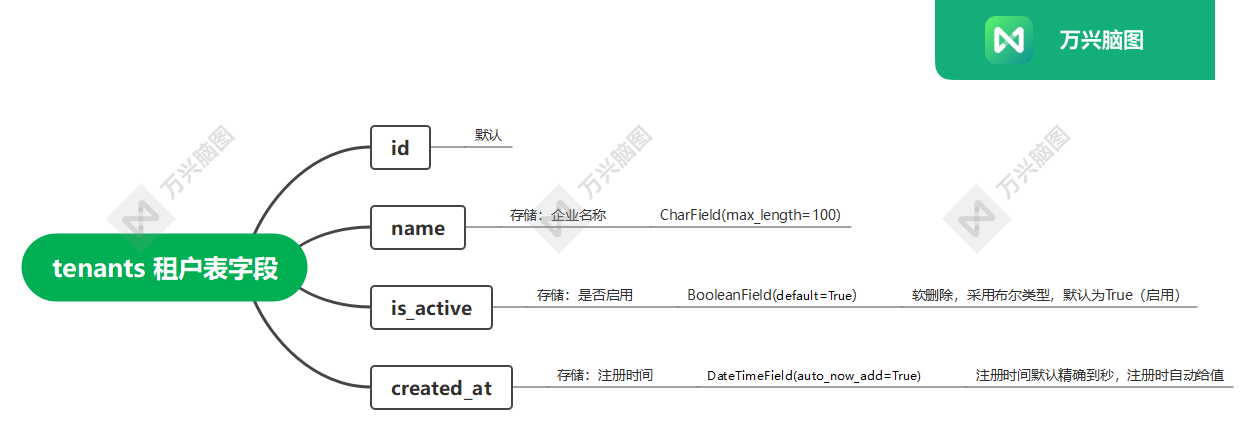
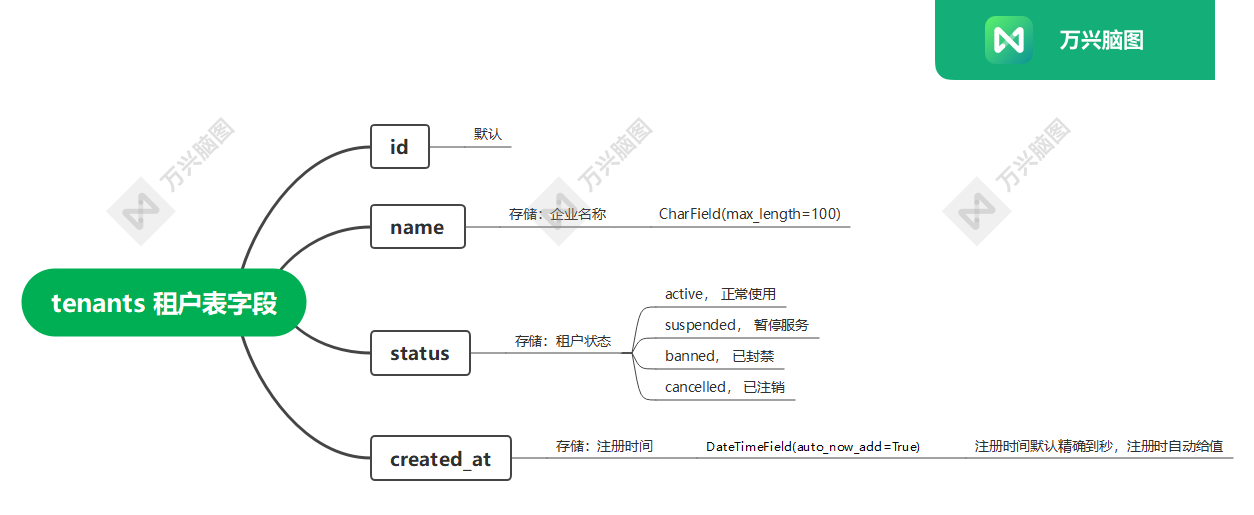
修复了一些bug

diff --git a/accounts/serializers.py b/accounts/serializers.py
@@ -14,6 +14,7 @@ from rest_framework import serializers
 # 4. 当前app自定义代码
 from .models import Tenant, User
 from .utils import redis_client
+from .utils import check_tenant_active
 
 # 企业注册 序列化器
 class RegisterSerializer(serializers.Serializer):
@@ -86,15 +87,30 @@ class LoginSerializer(serializers.Serializer):
         if not check_password(password, user.password):
             raise serializers.ValidationError('邮箱或密码错误')
 
-        # 3. 校验账号状态是否可用
-        if user.status == 'pending':
-            raise serializers.ValidationError('账号未激活，请查收邀请邮件')
-        if user.status == 'resigned':
-            raise serializers.ValidationError('账号已离职或被禁用')
-        if user.status == 'expired':
-            raise serializers.ValidationError('邀请已过期，请联系管理员重新邀请')
+        # 3. 校验账号状态
+        if user.status != 'active':
+            status_messages = {
+                'pending': '账号未激活，请查收邀请邮件',
+                'resigned': '账号已离职或被禁用',
+                'expired': '邀请已过期，请联系管理员重新邀请',
+            }
+            raise serializers.ValidationError(
+                status_messages.get(user.status, '账号状态异常，请联系管理员')
+            )
 
-        # 4. 把内存里user对象，放进attrs字典，方便视图取用
+        # 4. 【新增】校验租户状态
+        if user.tenant:
+            tenant_messages = {
+                'suspended': '所属公司服务已暂停，请联系管理员续费',
+                'banned': '所属公司已被封禁，请联系平台管理员',
+                'cancelled': '所属公司已注销',
+            }
+            if user.tenant.status != 'active':
+                raise serializers.ValidationError(
+                    tenant_messages.get(user.tenant.status, '所属公司状态异常')
+                )
+
+        # 5. 把内存里 user 对象放进 attrs，方便视图取用
         attrs['user'] = user
         return attrs
 
@@ -107,6 +123,9 @@ class InviteSerializer(serializers.Serializer):
 
     def validate(self, attrs):
         request_user = self.context['request'].user
+
+        # 统一租户校验
+        check_tenant_active(request_user)
 
         # 1. 身份判断：董事长 / HR
         is_owner = request_user.role == 'owner'
@@ -189,8 +208,9 @@ class ActivateSerializer(serializers.Serializer):
                 raise serializers.ValidationError('无效的激活链接')
 
             # 判断所属公司是否被停用
-            if user.tenant and not user.tenant.is_active:
+            if user.tenant and user.tenant.status != 'active':
                 raise serializers.ValidationError('所属公司已被平台停用')
+
 
             # 判断账号状态是否处于待激活状态
             if user.status != 'pending':

diff --git a/accounts/models.py b/accounts/models.py
@@ -2,10 +2,21 @@ from django.db import models
 
 # tenants 租户表
 class Tenant(models.Model):
+    STATUS_CHOICES = [
+        ('active', '正常使用'),      # 正常使用
+        ('suspended', '暂停服务'),   # 欠费
+        ('banned', '已封禁'),        # 违规被封禁
+        ('cancelled', '已注销'),     # 企业主动注销
+    ]
     # 企业名称
     name = models.CharField(max_length=100, verbose_name='企业名称')
     # 企业状态
-    is_active = models.BooleanField(default=True, verbose_name='是否启用')
+    status = models.CharField(
+        max_length=20,
+        choices=STATUS_CHOICES,
+        default='active',
+        verbose_name='租户状态'
+    )
     # 注册时间
     created_at = models.DateTimeField(auto_now_add=True, verbose_name='注册时间')
 
@@ -38,11 +49,13 @@ class User(models.Model):
     STATUS_CHOICES = [
         ('pending', '待激活'),
         ('active', '在职'),
-        ('resigned', '已离职'),
+        ('resigned', '已离职'),  # 默认注销 = 已离职
+        ('expired', '邀请已过期'),
     ]
 
     # tenant_id
-    tenant = models.ForeignKey('Tenant', on_delete=models.PROTECT)
+    tenant = models.ForeignKey('Tenant', on_delete=models.PROTECT, null=True, blank=True,        # ← 新增可空
+        verbose_name='所属公司')
     # 邮箱
     email = models.EmailField(unique=True, verbose_name='邮箱')
     # 原始邮箱
@@ -73,7 +86,6 @@ class User(models.Model):
     USERNAME_FIELD = 'email'
     REQUIRED_FIELDS = []
 
-    
     @property
     def is_active(self):
         return self.status == 'active'
@@ -88,6 +100,12 @@ class User(models.Model):
 
     def get_username(self):
         return self.email
+
+    def has_perm(self, perm, obj=None):
+        return False
+
+    def has_module_perms(self, app_label):
+        return False
 
     class Meta:
         db_table = 'users'

diff --git a/accounts/migrations/0003_remove_tenant_is_active_tenant_status_and_more.py b/accounts/migrations/0003_remove_tenant_is_active_tenant_status_and_more.py
@@ -1,0 +1,33 @@
+# Generated by Django 5.2.17 on 2026-10-03 15:45
+
+import django.db.models.deletion
+from django.db import migrations, models
+
+
+class Migration(migrations.Migration):
+
+    dependencies = [
+        ('accounts', '0002_remove_user_is_active_user_original_email_and_more'),
+    ]
+
+    operations = [
+        migrations.RemoveField(
+            model_name='tenant',
+            name='is_active',
+        ),
+        migrations.AddField(
+            model_name='tenant',
+            name='status',
+            field=models.CharField(choices=[('active', '正常使用'), ('suspended', '暂停服务'), ('banned', '已封禁'), ('cancelled', '已注销')], default='active', max_length=20, verbose_name='租户状态'),
+        ),
+        migrations.AlterField(
+            model_name='user',
+            name='status',
+            field=models.CharField(choices=[('pending', '待激活'), ('active', '在职'), ('resigned', '已离职'), ('expired', '邀请已过期')], default='pending', max_length=20, verbose_name='账号状态'),
+        ),
+        migrations.AlterField(
+            model_name='user',
+            name='tenant',
+            field=models.ForeignKey(blank=True, null=True, on_delete=django.db.models.deletion.PROTECT, to='accounts.tenant', verbose_name='所属公司'),
+        ),
+    ]

diff --git a/accounts/utils.py b/accounts/utils.py
@@ -1,5 +1,6 @@
 import redis
 from django.conf import settings
+from rest_framework.exceptions import PermissionDenied
 
 # 全局 Redis 客户端
 redis_client = redis.Redis(
@@ -8,3 +9,19 @@ redis_client = redis.Redis(
     db=settings.REDIS_DB,
     decode_responses=True
 )
+
+'''
+校验用户所属租户是否处于正常状态。
+被封禁/暂停/注销的租户下，所有业务操作都应该被拦截。
+可在视图入口统一调用。
+'''
+def check_tenant_active(user):
+    if user.tenant and user.tenant.status != 'active':
+        status_messages = {
+            'suspended': '所属公司服务已暂停，请联系管理员续费',
+            'banned': '所属公司已被封禁，请联系平台管理员',
+            'cancelled': '所属公司已注销',
+        }
+        raise PermissionDenied(
+            status_messages.get(user.tenant.status, '所属公司状态异常')
+        )

diff --git a/accounts/admin.py b/accounts/admin.py
@@ -4,8 +4,10 @@ from .models import Tenant, User
 @admin.register(Tenant)
 class TenantAdmin(admin.ModelAdmin):
     # 后台展示字段
-    list_display = ('id', 'name', 'is_active', 'created_at')
-
+    list_display = ('id', 'name', 'status', 'created_at')
+    list_filter = ('status',)
+    search_fields = ('name',)
+    
 @admin.register(User)
 class UserAdmin(admin.ModelAdmin):
     # 后台展示字段
